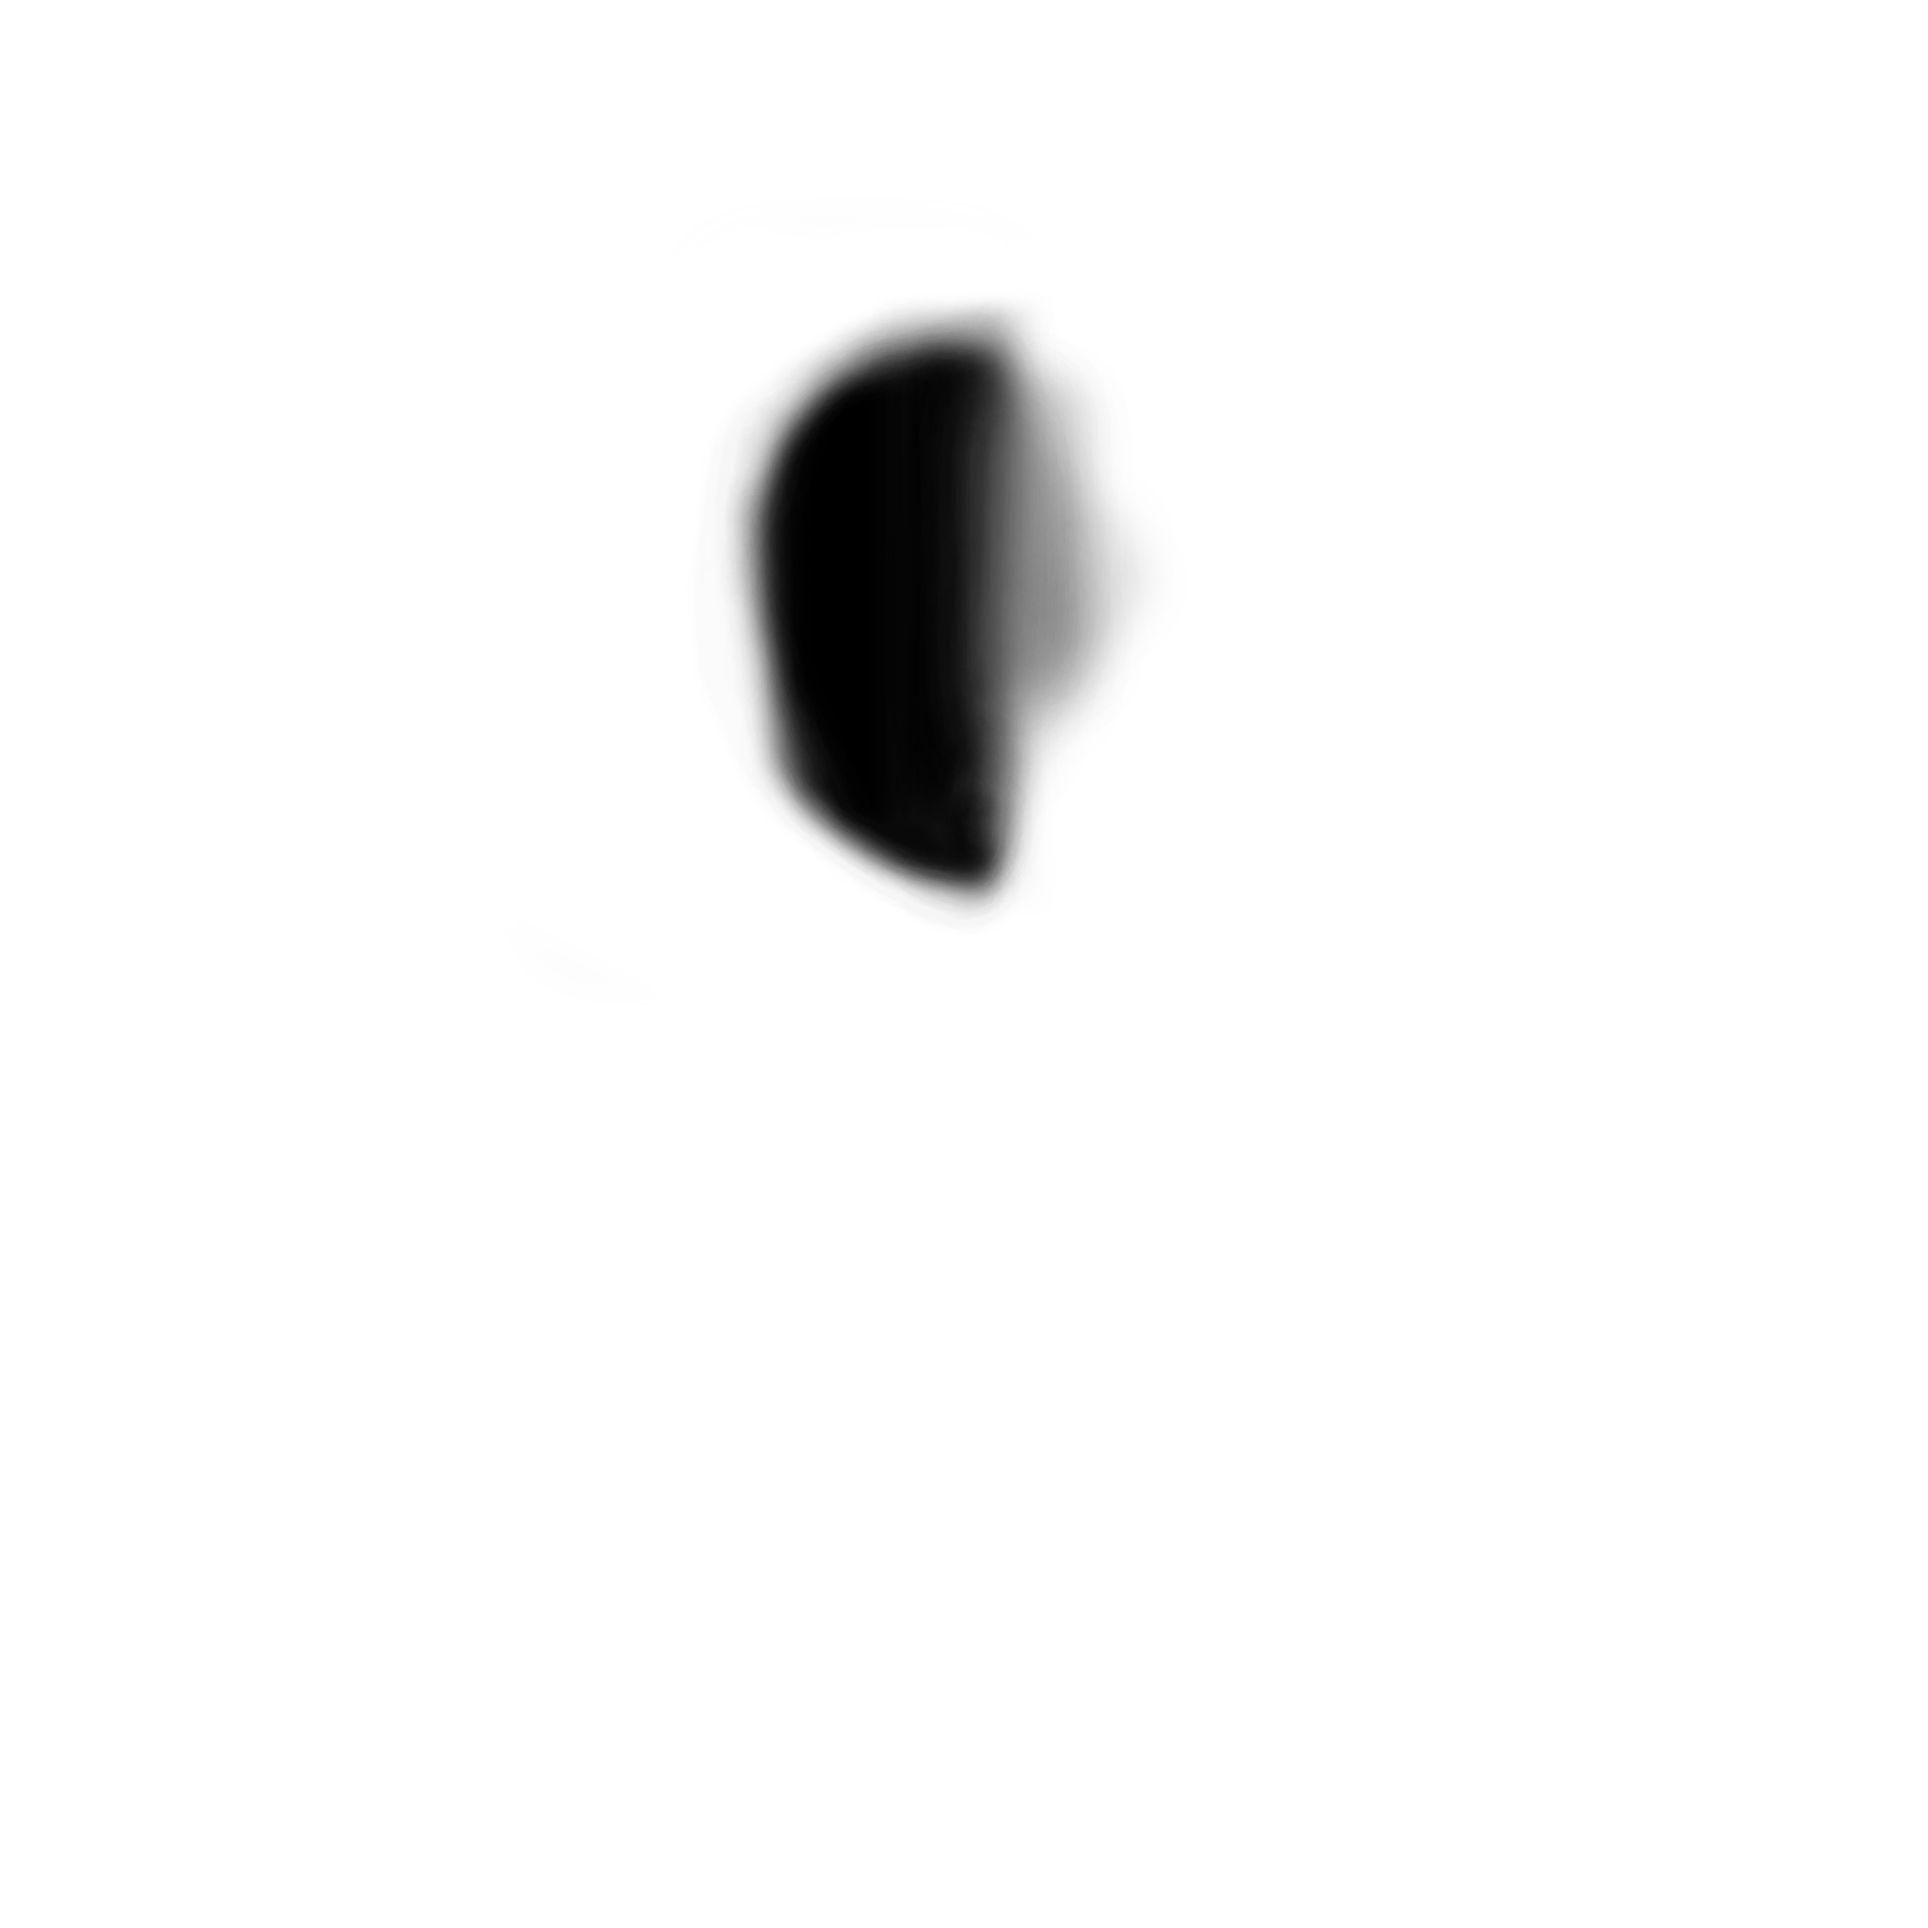
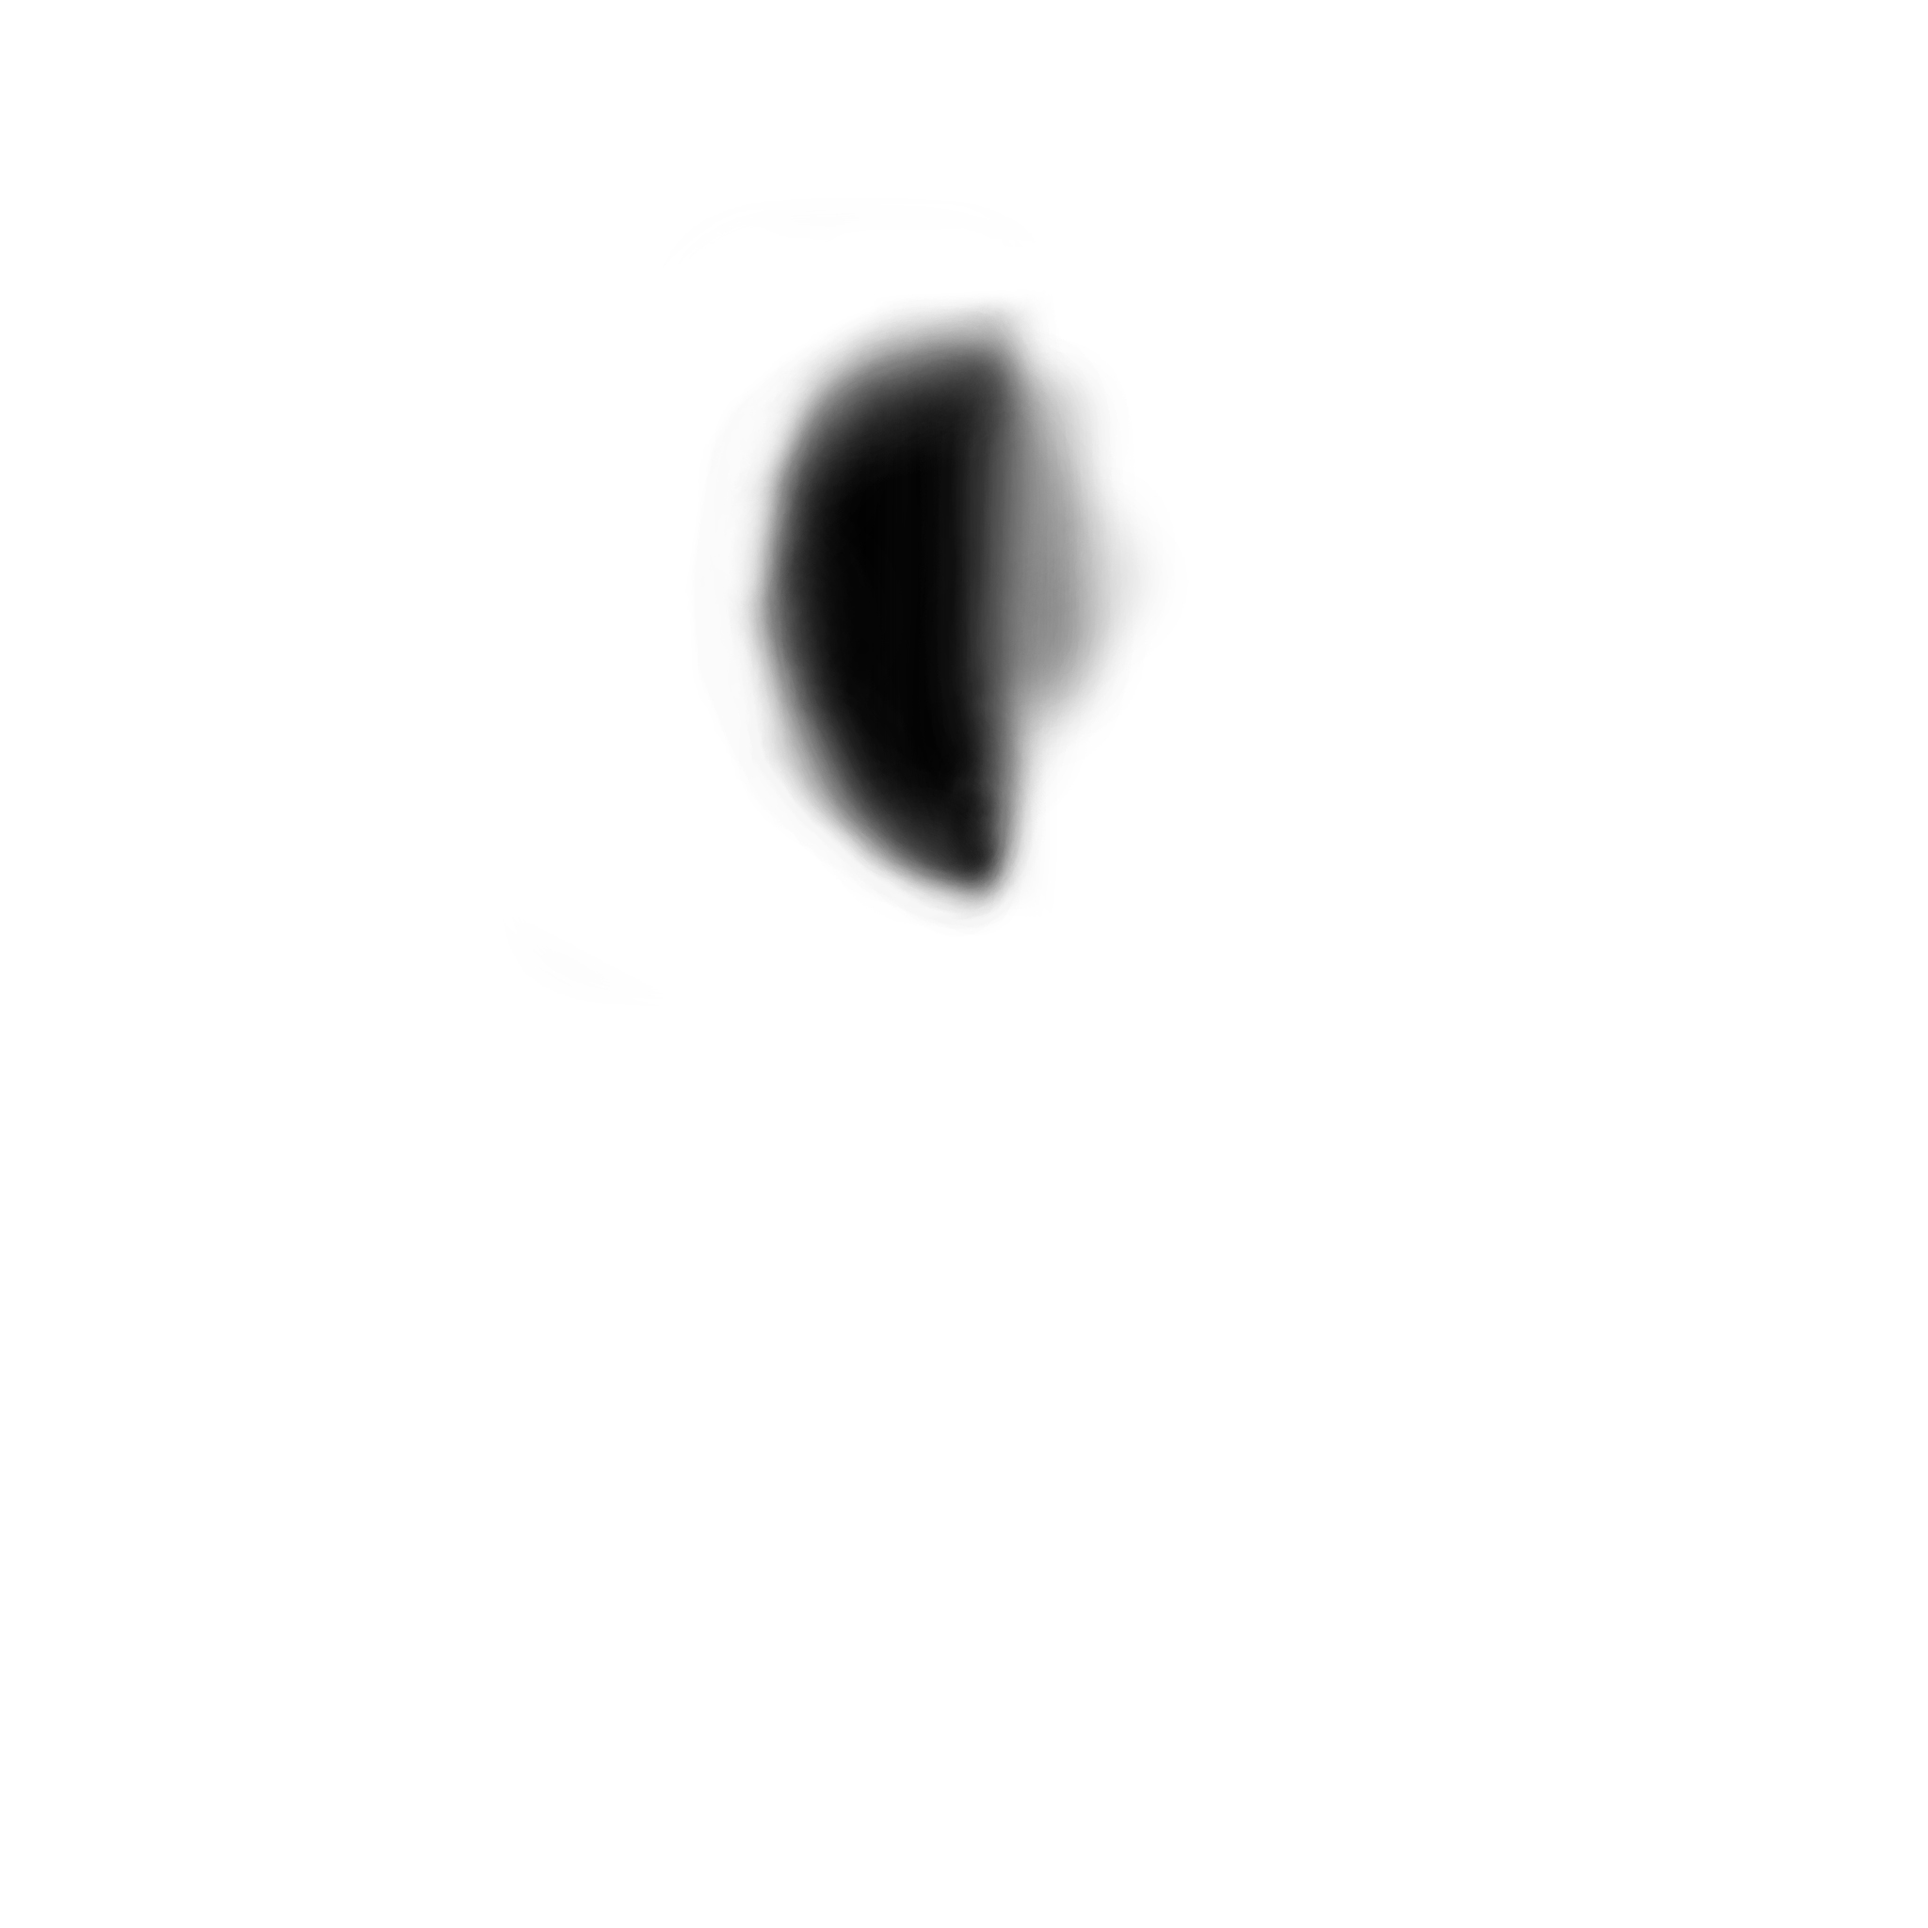
change base target color and mask

Changed region(s): [[0.375, 0.1562, 0.5312, 0.4688]]

diff --git a/nativeproj/facecloud/facecloud/Windows/WindowsApp/LibCaller.cpp b/nativeproj/facecloud/facecloud/Windows/WindowsApp/LibCaller.cpp
@@ -32,12 +32,13 @@ Tutorial 13 - Camera Space
 #include "ImageOptimizedUtility.h"
 
 FaceCloudLib lib;
-string currentModelID = "10002";
+string currentModelID = "10001";
+//string currentModelID = "10002";
 string outJsonModelOut = ""; 
-//string jsonfacepath = "data/face/photojson_raw.json";
-//string photopath = "data/face/photoface_raw.jpg";
-string jsonfacepath = "data/face/photojson_raw_server.json";
-string photopath = "data/face/photoface_raw_server.jpg";
+string jsonfacepath = "data/face/photojson_raw.json";
+string photopath = "data/face/photoface_raw.jpg";
+//string jsonfacepath = "data/face/photojson_raw_server.json";
+//string photopath = "data/face/photoface_raw_server.jpg";
 //string jsonfacepath = "data/skindetect/color/color_white_org.json";
 //string photopath = "data/skindetect/color/color_white_org.jpg";
 //string jsonfacepath = "data/skindetect/color/color_nature _org.json";

diff --git a/nativeproj/facecloud/facecloud/Shared/FaceCloudLib.cpp b/nativeproj/facecloud/facecloud/Shared/FaceCloudLib.cpp
@@ -342,12 +342,12 @@ string FaceCloudLib::CalculateReal(string modelID, string photoPath, string json
 		if (isman)
 		{
 			m_targetcolor = cv::Vec3s(210, 165, 120);
-			m_basecolor = cv::Vec3s(210, 165, 120);
+			m_basecolor = cv::Vec3s(200, 155, 110);
 		}
 		else
 		{
-			m_targetcolor = cv::Vec3s(210, 172, 138);
-			m_basecolor = cv::Vec3s(208, 170, 136);
+			m_targetcolor = cv::Vec3s(205, 165, 132);
+			m_basecolor = cv::Vec3s(200, 160, 128);
 		}
 
 		JsonFaceInfo jsonfaceinfo;
